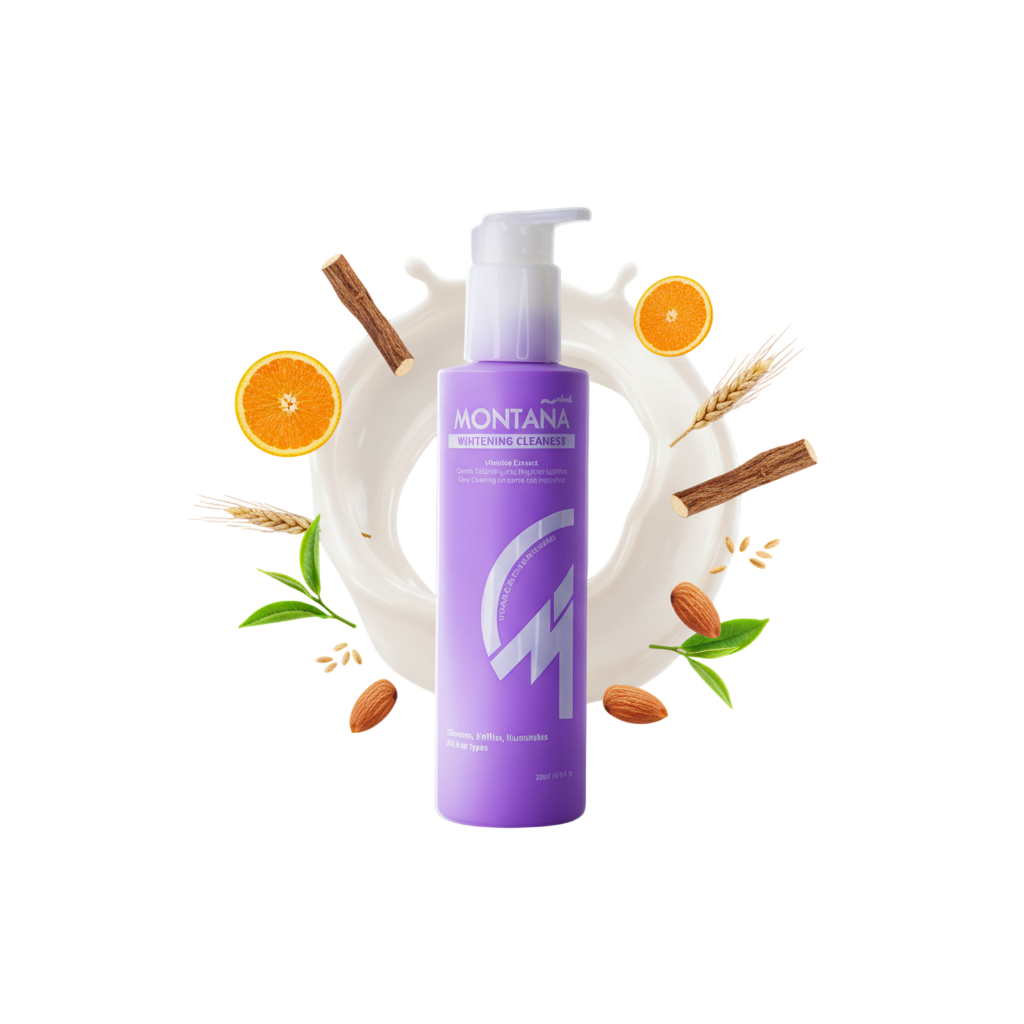
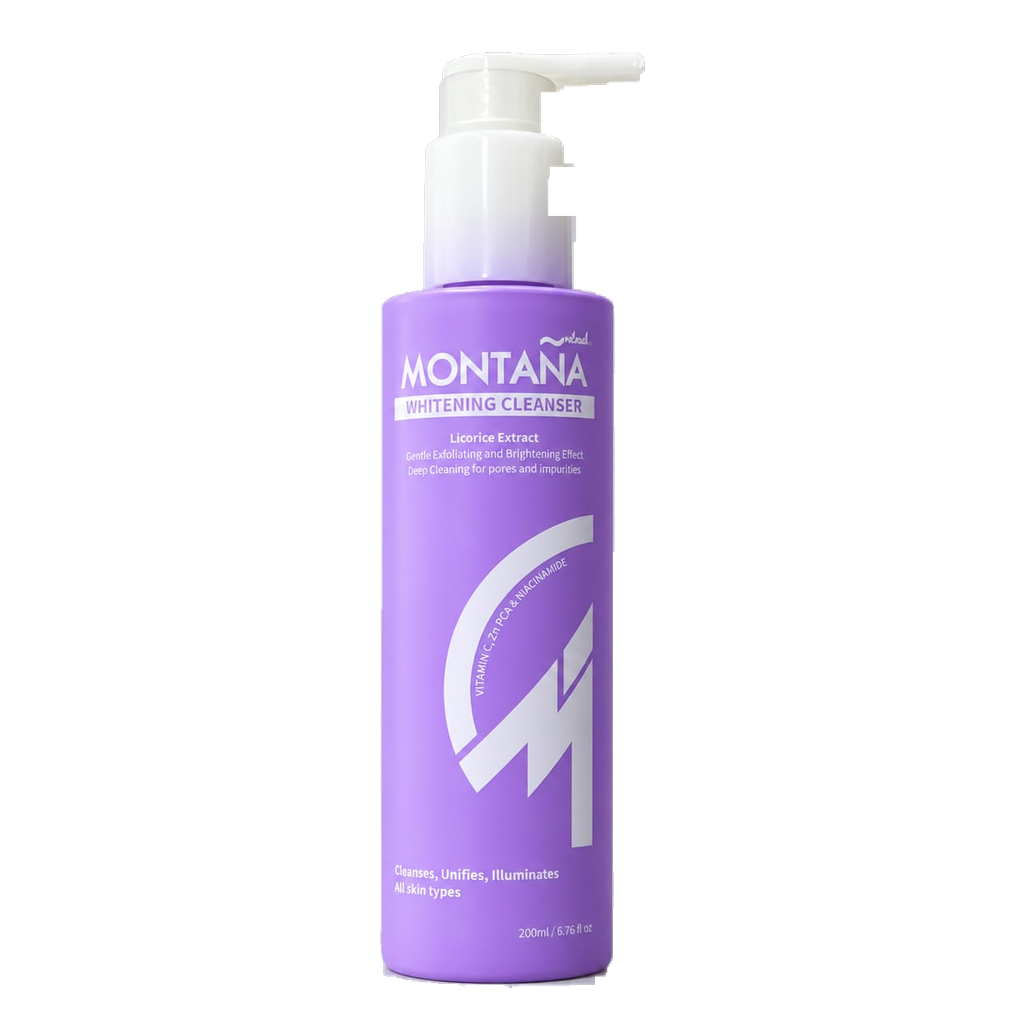
Replace the product photography with the new studio shots
Five products reshot on a plain backdrop, cut out and re-laid so they read as
real objects on the white theme. The gel keeps its old picture for now.

The backdrop had a glow of bounced light behind each product, so keying it out
against one colour left a halo — invisible on white, obvious on the story
circles. It is measured instead: a median flat field on a coarse grid, gaps
diffused across where the product stands. The cast shadow goes with it on
chroma, the bottle surviving on its purple and the cap on being brighter than
the backdrop rather than darker. Bites out of the frosted caps — parts of which
are literally the backdrop's grey — are closed morphologically, and only the
product's own connected piece is kept, which is what dropped two stray patches
of backdrop that had been dragging the bounding box out by 40%.

Size is the part that took three goes. Squaring each product on its own
bounding box drew a 50 ml jar as tall as a 200 ml bottle. Scaling by real
height in cm drew every 50 ml jar identical, which they are not, and left them
stranded in the middle of a card. Both were my own invention and both were
wrong. Within a shoot the camera did not move, so the pixel heights are real
and are used as they are — the post-laser cream is genuinely the shortest of
the three. Between the two shoots the camera did move, so one factor separates
the groups, set so a jar is 72% of a bottle: clearly smaller, still filling its
card. That factor is the one number to turn.
[…]

Changed region(s): [[0.1875, 0.0625, 0.8125, 0.9688], [0.4062, 0.0625, 0.4375, 0.125]]

diff --git a/js/hero-products.js b/js/hero-products.js
@@ -21,7 +21,7 @@ export const HERO_SCALE_BY_SLUG = {
   'whitening-cleanser': 1.16,
 };
 
-const HERO_VER = '14';
+const HERO_VER = '15';
 
 export function heroImageForProduct(p) {
   const base = HERO_IMG_BY_SLUG[p.slug] || p.image_url || 'images/p1.png';
